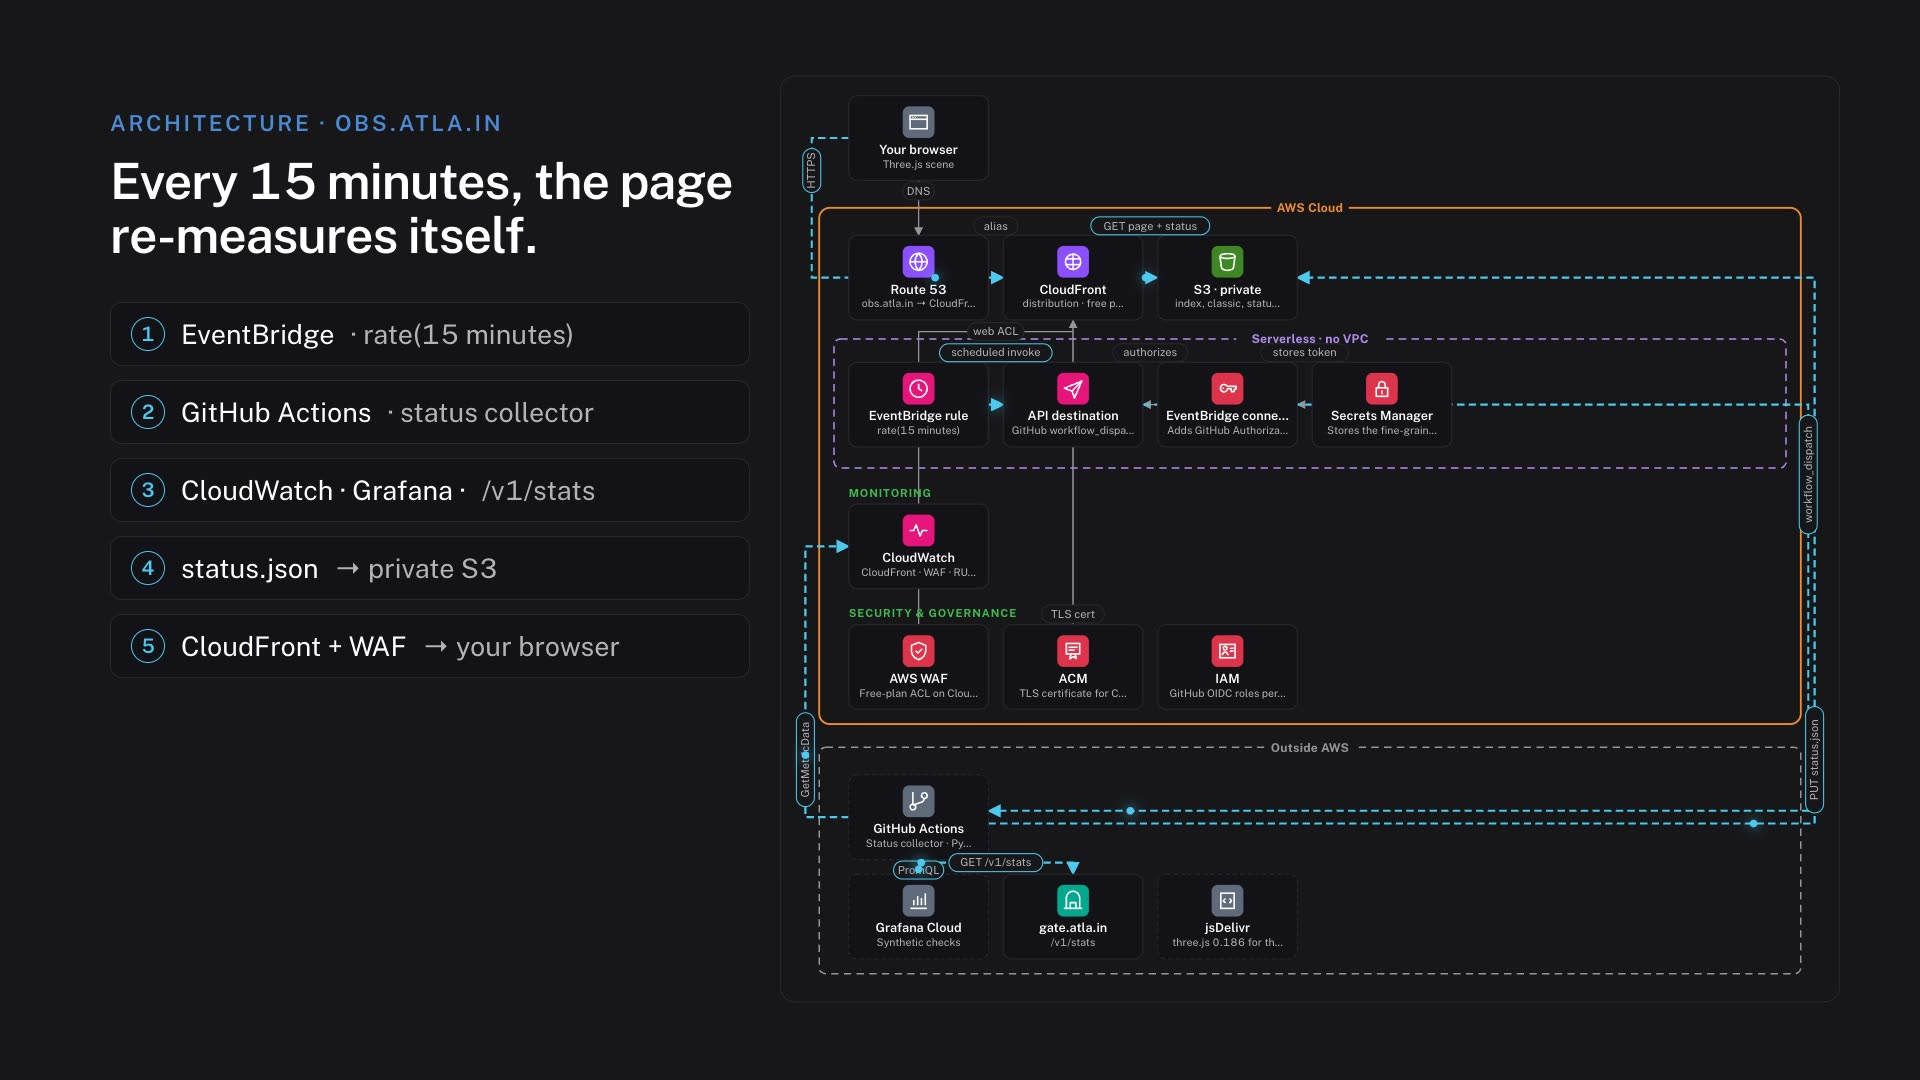
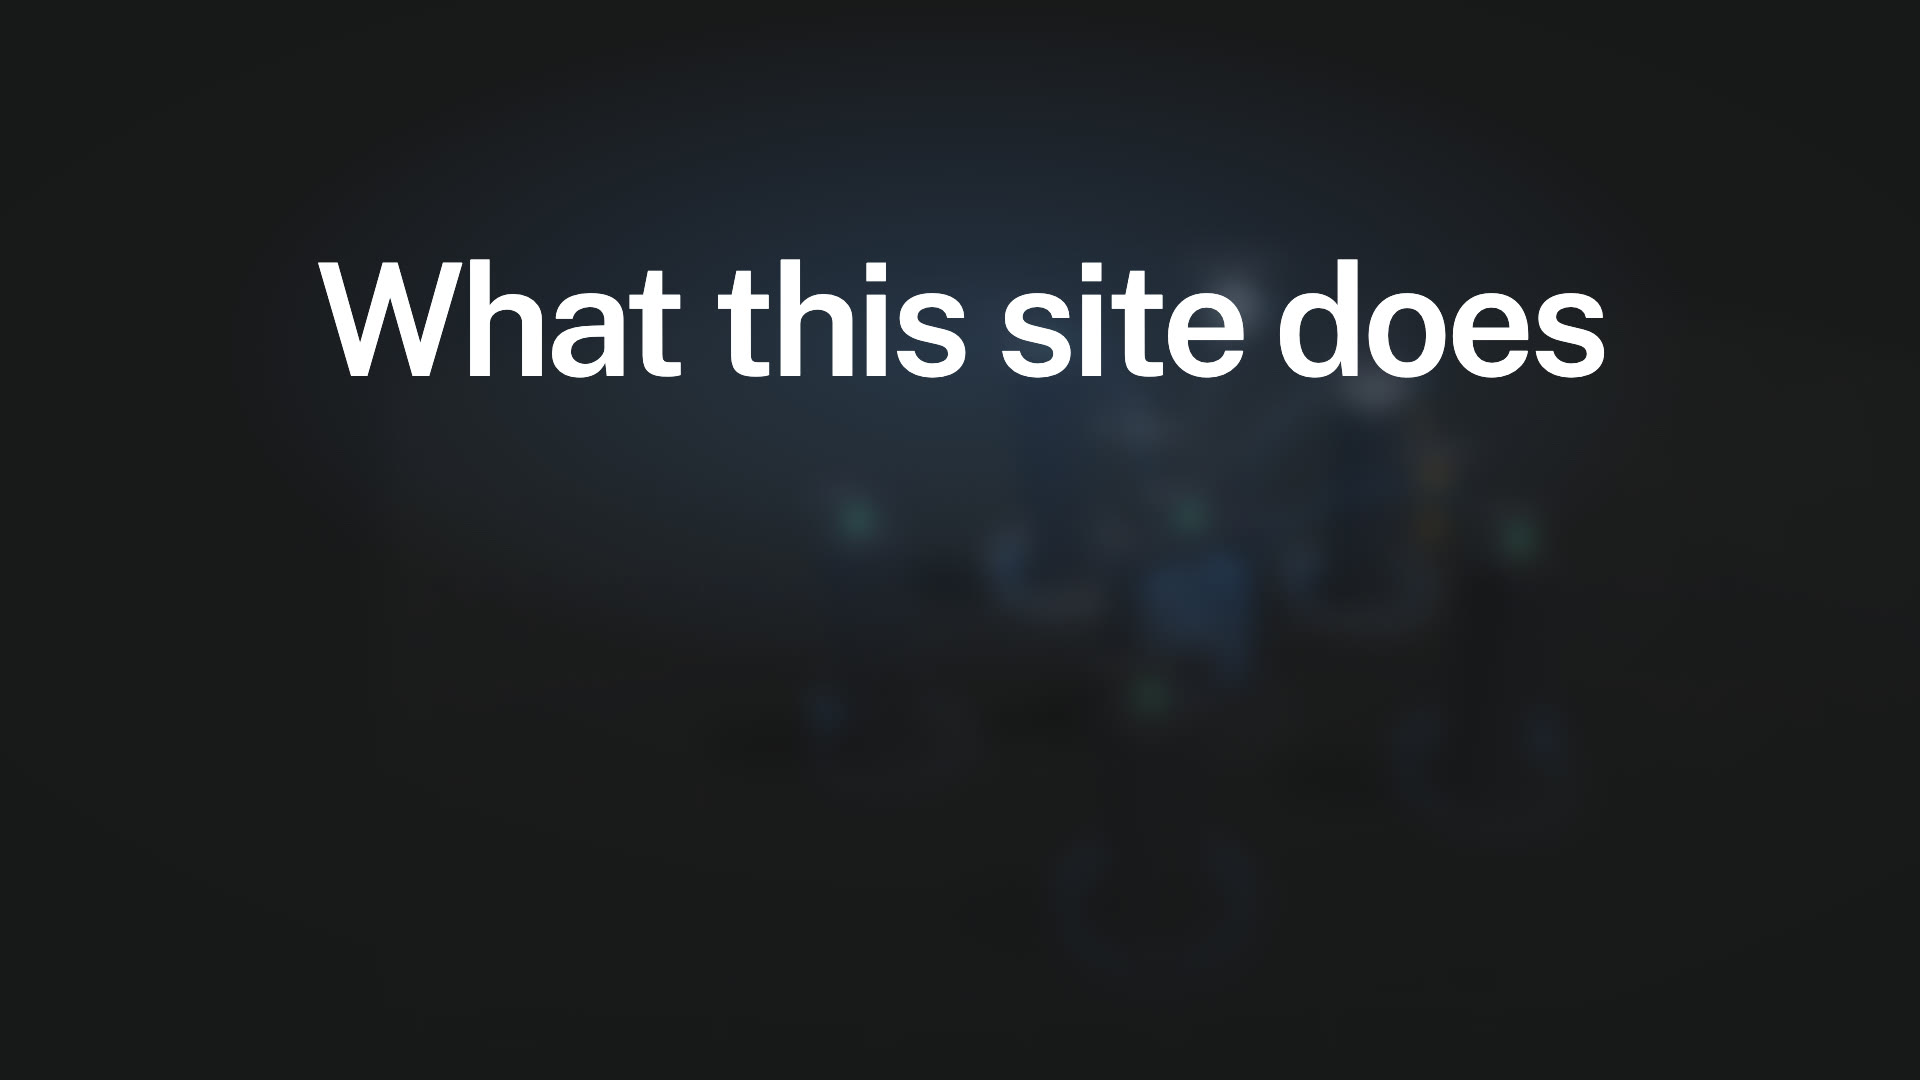
Make the intro video a large hero card beside the title
The card grows to up to 720px (about 40vw) at the top right, beside the page
title, with an accent border and glow. The poster now only says "What this
site does"; the caption bar is gone, the close button sits on the video, and
the chip shows just the duration. The 3D scene moves down and slightly left
to stay clear of the card.

diff --git a/index.html b/index.html
@@ -339,26 +339,25 @@
   /* Intro video: a captioned card on the page itself, like gate.atla.in's hero video.
      Pressing play grows the card into a large player in place (FLIP), so the 1080p diagrams are readable. */
   :root { --ease-out-strong: cubic-bezier(0.23, 1, 0.32, 1); --ease-in-out-strong: cubic-bezier(0.77, 0, 0.175, 1); }
-  .explainer { position: fixed; z-index: 2; top: 180px; right: 40px; width: min(440px, calc(100vw - 520px)); margin: 0; background: var(--surface); border: 1px solid var(--border); border-radius: var(--radius); overflow: hidden; box-shadow: 0 1px 0 rgba(255, 255, 255, 0.04) inset, 0 18px 40px -18px rgba(0, 0, 0, 0.6); transition: opacity 260ms var(--ease-out-strong), transform 260ms var(--ease-out-strong); }
+  .explainer { position: fixed; z-index: 4; top: 24px; right: 40px; width: max(420px, min(720px, 40vw, calc(100vw - 760px))); margin: 0; background: var(--surface); border: 1px solid color-mix(in srgb, var(--accent) 55%, var(--border)); border-radius: 10px; overflow: hidden; box-shadow: 0 0 0 4px color-mix(in srgb, var(--accent) 12%, transparent), 0 24px 60px -20px rgba(0, 0, 0, 0.7), 0 0 80px -20px color-mix(in srgb, var(--accent) 45%, transparent); transition: opacity 260ms var(--ease-out-strong), transform 260ms var(--ease-out-strong); }
   @starting-style { .explainer { opacity: 0; transform: translateY(8px) scale(0.98); } }
   .explainer.leaving { opacity: 0; transform: translateY(-4px) scale(0.98); transition-duration: 150ms; }
   .explainer[hidden] { display: none; }
   .explainer-media { position: relative; }
   .explainer video { display: block; width: 100%; height: auto; aspect-ratio: 16 / 9; background: var(--bg-page); }
-  .explainer-play { position: absolute; inset: 0; display: grid; place-items: center; padding: 0; border: 0; cursor: pointer; color: inherit; font: inherit; background: linear-gradient(180deg, rgba(19, 18, 23, 0) 55%, rgba(19, 18, 23, 0.55) 100%); -webkit-tap-highlight-color: transparent; }
+  .explainer-play { position: absolute; inset: 0; display: grid; place-items: center; padding: 22% 0 0; border: 0; cursor: pointer; color: inherit; font: inherit; background: linear-gradient(180deg, rgba(19, 18, 23, 0) 55%, rgba(19, 18, 23, 0.55) 100%); -webkit-tap-highlight-color: transparent; }
   .explainer.playing .explainer-play { display: none; }
-  .play-disc { display: grid; place-items: center; width: 64px; height: 64px; border-radius: 50%; background: rgba(255, 255, 255, 0.94); color: #131217; box-shadow: 0 8px 24px -6px rgba(0, 0, 0, 0.55); transition: transform 160ms var(--ease-out-strong); }
-  .play-disc svg { width: 22px; height: 22px; margin-left: 3px; }
+  .play-disc { display: grid; place-items: center; width: clamp(56px, 6vw, 80px); height: clamp(56px, 6vw, 80px); border-radius: 50%; background: rgba(255, 255, 255, 0.94); color: #131217; box-shadow: 0 8px 24px -6px rgba(0, 0, 0, 0.55); transition: transform 160ms var(--ease-out-strong); }
+  .play-disc svg { width: 40%; height: 40%; margin-left: 6%; }
   .play-chip { position: absolute; left: 12px; bottom: 12px; font-size: 12px; font-weight: 500; padding: 4px 10px; border-radius: 999px; background: rgba(19, 18, 23, 0.82); color: var(--text-main); border: 1px solid rgba(255, 255, 255, 0.08); font-variant-numeric: tabular-nums; }
   @media (hover: hover) and (pointer: fine) { .explainer-play:hover .play-disc { transform: scale(1.05); } }
   .explainer-play:active .play-disc { transform: scale(0.97); }
   .explainer-play:focus-visible { outline: 2px solid var(--accent); outline-offset: -4px; }
-  .explainer figcaption { display: flex; align-items: center; gap: 12px; padding: 10px 8px 10px 14px; border-top: 1px solid var(--border); }
-  .explainer figcaption b { font-size: 14px; font-weight: 600; }
-  .explainer figcaption span { font-size: 13px; color: var(--text-muted); }
-  .explainer .close { width: 36px; height: 36px; min-height: 36px; font-size: 16px; }
+  .explainer .close { position: absolute; z-index: 1; top: 10px; right: 10px; width: 36px; height: 36px; min-height: 36px; font-size: 16px; border: 0; border-radius: 50%; background: rgba(19, 18, 23, 0.7); color: var(--text-main); }
+  @media (hover: hover) and (pointer: fine) { .explainer .close:hover { background: rgba(19, 18, 23, 0.92); } }
+  .explainer.theater .close { top: 14px; right: 14px; }
   /* Theatre: the same element, fixed and centred; JS sets its box and animates from the card */
-  .explainer.theater { z-index: 8; right: auto; bottom: auto; box-shadow: 0 30px 80px -20px rgba(0, 0, 0, 0.8); transition: none; }
+  .explainer.theater { z-index: 8; right: auto; bottom: auto; border-color: var(--border); box-shadow: 0 30px 80px -20px rgba(0, 0, 0, 0.8); transition: none; }
   .explainer-scrim { position: fixed; inset: 0; z-index: 7; background: rgba(10, 10, 12, 0.76); opacity: 0; transition: opacity 180ms ease-out; }
   .explainer-scrim.on { opacity: 1; transition-duration: 260ms; }
   .explainer-scrim[hidden] { display: none; }
@@ -366,11 +365,10 @@
   /* Tablets: the card takes the top of the map column and the map sits below it */
   @media (min-width: 721px) and (max-width: 1100px) {
     .explainer:not(.theater) { top: 188px; left: 392px; right: 24px; width: auto; }
-    body:has(.explainer:not([hidden])) .map-region { top: calc(188px + (100vw - 416px) * 9 / 16 + 66px); }
+    body:has(.explainer:not([hidden])) .map-region { top: calc(188px + (100vw - 416px) * 9 / 16 + 18px); }
   }
   @media (max-width: 720px) {
     .explainer { position: relative; top: auto; right: auto; width: auto; margin: 0 16px 24px; }
-    .explainer figcaption { flex-wrap: wrap; }
   }
   @media (prefers-reduced-motion: reduce) {
     @starting-style { .explainer { transform: none; } }
@@ -406,12 +404,12 @@
   </nav>
 </div>
 
-<figure class="explainer" id="explainer" aria-labelledby="explainer-title">
+<figure class="explainer" id="explainer" aria-label="What this site does">
   <div class="explainer-media">
     <video id="intro-video" src="assets/intro.mp4" poster="assets/intro.jpg" playsinline preload="metadata" aria-label="What obs.atla.in is for"></video>
-    <button class="explainer-play" id="explainer-play" type="button" aria-label="Play the intro video, 42 seconds"><span class="play-disc"><svg viewBox="0 0 24 24" aria-hidden="true"><path d="M7 4.5v15l13-7.5z" fill="currentColor"/></svg></span><span class="play-chip">Watch the tour · 0:42</span></button>
+    <button class="explainer-play" id="explainer-play" type="button" aria-label="Play: what this site does, 42 seconds"><span class="play-disc"><svg viewBox="0 0 24 24" aria-hidden="true"><path d="M7 4.5v15l13-7.5z" fill="currentColor"/></svg></span><span class="play-chip">0:42</span></button>
+    <button class="close" id="explainer-hide" type="button" aria-label="Hide intro video">×</button>
   </div>
-  <figcaption><div><b id="explainer-title">What this page does</b><br><span>A 40-second tour of every metric and site architecture</span></div><button class="close" id="explainer-hide" type="button" aria-label="Hide intro video">×</button></figcaption>
 </figure>
 <div class="explainer-scrim" id="explainer-scrim" hidden></div>
 
@@ -553,7 +551,7 @@
   };
   try { explainer.hidden = localStorage.getItem("obs-intro-hidden") === "1"; } catch (e) {}
   const theaterBox = () => {
-    const cap = explainer.querySelector("figcaption").offsetHeight + 2;
+    const cap = 2;
     const w = Math.min(1280, innerWidth - 96, (innerHeight - 96 - cap) * 16 / 9);
     const h = w * 9 / 16 + cap;
     return { left: (innerWidth - w) / 2, top: (innerHeight - h) / 2, width: w };
@@ -594,7 +592,7 @@
     resumeAt = t > 1 ? t : 0;
     introVideo.load();
     const left = Math.max(0, Math.round((introVideo.duration || 42.5) - resumeAt));
-    chip.textContent = resumeAt ? `Resume · ${Math.floor(left / 60)}:${String(left % 60).padStart(2, "0")} left` : "Watch the tour · 0:42";
+    chip.textContent = resumeAt ? `Resume · ${Math.floor(left / 60)}:${String(left % 60).padStart(2, "0")} left` : "0:42";
   };
   introVideo.addEventListener("loadedmetadata", () => { if (resumeAt && explainer.classList.contains("playing")) introVideo.currentTime = resumeAt; });
   const closeTheater = () => {
@@ -1399,8 +1397,11 @@
   const setViewShift = (on) => {
     if (on && !narrow()) camera.setViewOffset(sceneSize().width, sceneSize().height, Math.min(panel.offsetWidth / 2, sceneSize().width * 0.3), 0, sceneSize().width, sceneSize().height);
     else if (on && narrow()) camera.clearViewOffset();
-    // The intro card docks over the map's top-right on wide screens, so centre the scene in the space left of it
-    else if (!explainer.hidden && innerWidth > 1100) camera.setViewOffset(sceneSize().width, sceneSize().height, (explainer.offsetWidth + 64) / 2, 0, sceneSize().width, sceneSize().height);
+    // The intro card overlaps the map's top-right on wide screens: nudge the scene left and down, clear of it
+    else if (!explainer.hidden && innerWidth > 1100) {
+      const overlap = Math.max(0, explainer.getBoundingClientRect().bottom - stage.getBoundingClientRect().top);
+      camera.setViewOffset(sceneSize().width, sceneSize().height, explainer.offsetWidth * 0.18, -overlap * 0.45, sceneSize().width, sceneSize().height);
+    }
     else camera.clearViewOffset();
     camera.updateProjectionMatrix();
   };
